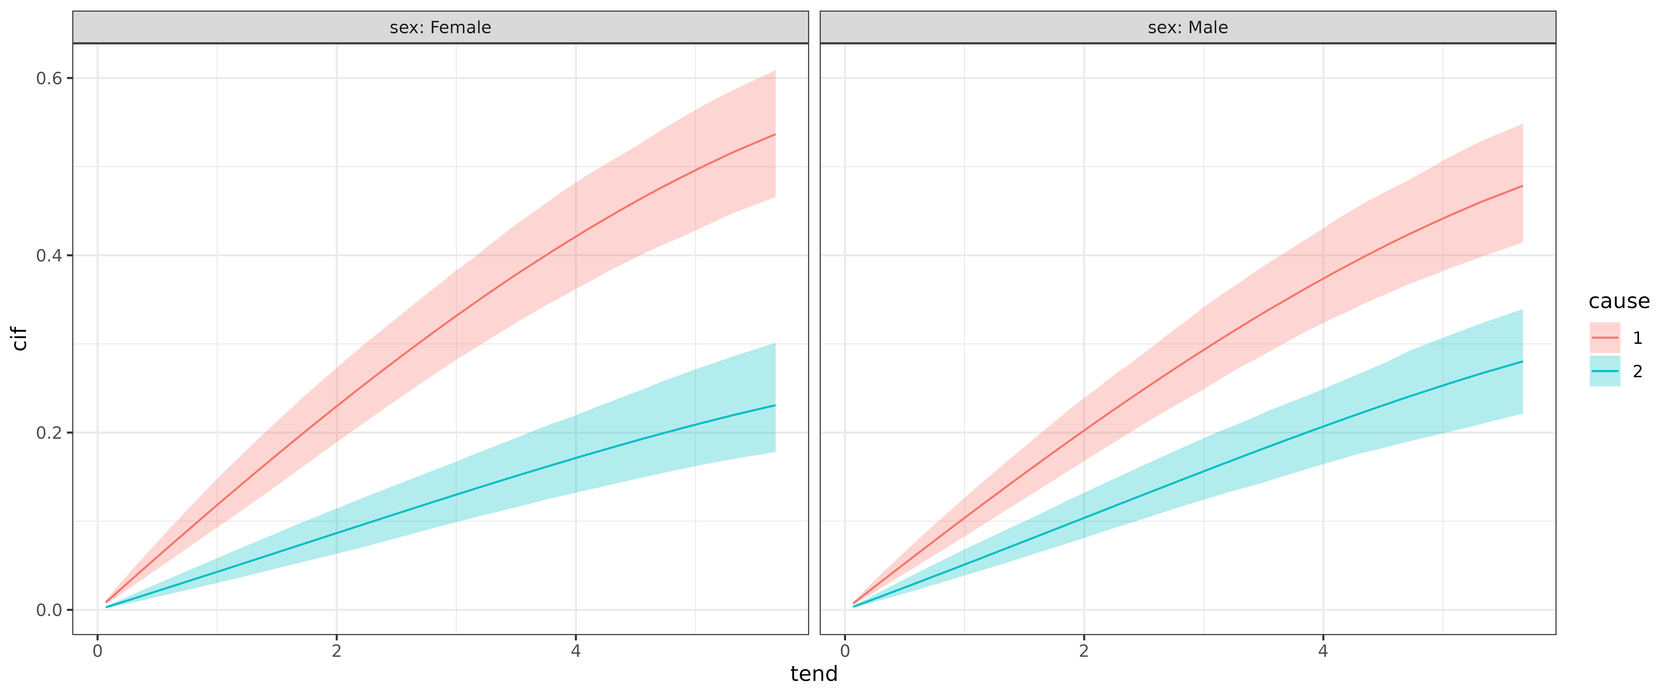
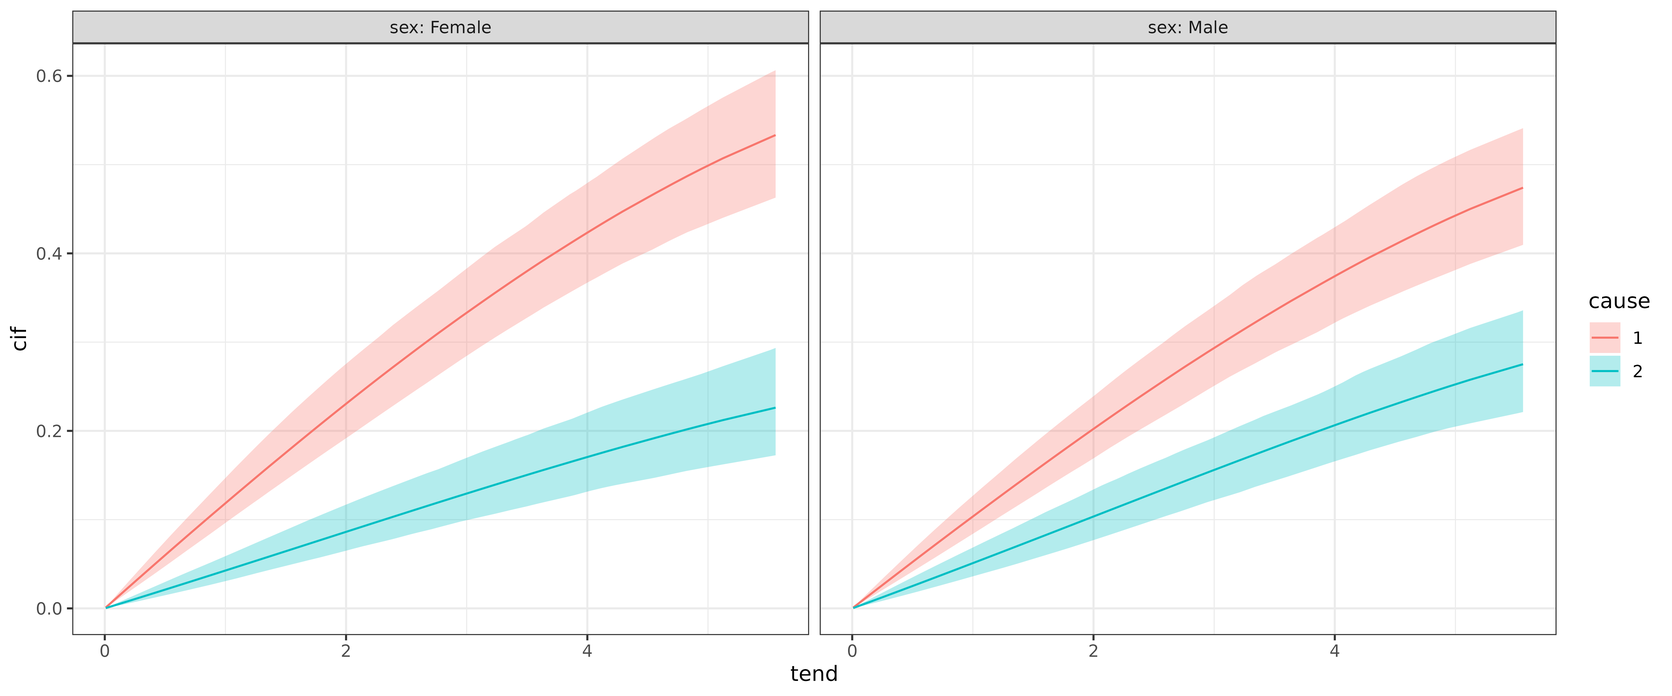
Deploying to gh-pages from @ adibender/pammtools@da57368780e8a02d9a3adbf6868d4b627848fb0f 🚀

diff --git a/articles/competing-risks.html b/articles/competing-risks.html
@@ -145,7 +145,7 @@
                         <h4 data-toc-skip class="author">Andreas
 Bender</h4>
             
-            <h4 data-toc-skip class="date">2024-02-24</h4>
+            <h4 data-toc-skip class="date">2024-02-26</h4>
       
       <small class="dont-index">Source: <a href="https://github.com/adibender/pammtools/blob/HEAD/vignettes/competing-risks.Rmd" class="external-link"><code>vignettes/competing-risks.Rmd</code></a></small>
       <div class="hidden name"><code>competing-risks.Rmd</code></div>
@@ -218,15 +218,15 @@ not stacked but rather returned in a list.</p>
 <span>  <span class="fu"><a href="../reference/as_ped.html">as_ped</a></span><span class="op">(</span><span class="fu"><a href="https://rdrr.io/pkg/survival/man/Surv.html" class="external-link">Surv</a></span><span class="op">(</span><span class="va">time</span>, <span class="va">status</span><span class="op">)</span><span class="op">~</span><span class="va">.</span>, id <span class="op">=</span> <span class="st">"id"</span>, cut <span class="op">=</span> <span class="va">cut</span>, combine <span class="op">=</span> <span class="cn">FALSE</span><span class="op">)</span></span>
 <span><span class="fu"><a href="https://rdrr.io/r/utils/str.html" class="external-link">str</a></span><span class="op">(</span><span class="va">ped</span>, <span class="fl">1</span><span class="op">)</span></span></code></pre></div>
 <pre><code><span><span class="co">## List of 2</span></span>
-<span><span class="co">##  $ cause = 1:Classes 'ped' and 'data.frame': 30438 obs. of  9 variables:</span></span>
-<span><span class="co">##   ..- attr(*, "breaks")= num [1:96] 0.0684 0.0767 0.1752 0.1834 0.1944 ...</span></span>
+<span><span class="co">##  $ cause = 1:Classes 'ped' and 'data.frame': 31274 obs. of  9 variables:</span></span>
+<span><span class="co">##   ..- attr(*, "breaks")= num [1:99] 0.00821 0.10951 0.15606 0.27105 0.38877 ...</span></span>
 <span><span class="co">##   ..- attr(*, "id_var")= chr "id"</span></span>
 <span><span class="co">##   ..- attr(*, "intvars")= chr [1:6] "id" "tstart" "tend" "interval" ...</span></span>
 <span><span class="co">##   ..- attr(*, "trafo_args")=List of 3</span></span>
 <span><span class="co">##   ..- attr(*, "time_var")= chr "time"</span></span>
 <span><span class="co">##   ..- attr(*, "status_var")= chr "status"</span></span>
-<span><span class="co">##  $ cause = 2:Classes 'ped' and 'data.frame': 30438 obs. of  9 variables:</span></span>
-<span><span class="co">##   ..- attr(*, "breaks")= num [1:96] 0.0684 0.0767 0.1752 0.1834 0.1944 ...</span></span>
+<span><span class="co">##  $ cause = 2:Classes 'ped' and 'data.frame': 31274 obs. of  9 variables:</span></span>
+<span><span class="co">##   ..- attr(*, "breaks")= num [1:99] 0.00821 0.10951 0.15606 0.27105 0.38877 ...</span></span>
 <span><span class="co">##   ..- attr(*, "id_var")= chr "id"</span></span>
 <span><span class="co">##   ..- attr(*, "intvars")= chr [1:6] "id" "tstart" "tend" "interval" ...</span></span>
 <span><span class="co">##   ..- attr(*, "trafo_args")=List of 3</span></span>
@@ -238,13 +238,13 @@ not stacked but rather returned in a list.</p>
 <div class="sourceCode" id="cb5"><pre class="downlit sourceCode r">
 <code class="sourceCode R"><span><span class="co"># data set for event type 1 (death from cardiovascular events)</span></span>
 <span><span class="fu"><a href="https://rdrr.io/r/utils/head.html" class="external-link">head</a></span><span class="op">(</span><span class="va">ped</span><span class="op">[[</span><span class="fl">1</span><span class="op">]</span><span class="op">]</span><span class="op">)</span></span></code></pre></div>
-<pre><code><span><span class="co">##     id     tstart       tend                    interval    offset ped_status</span></span>
-<span><span class="co">## 1 5002 0.00000000 0.06844627            (0,0.0684462697] -2.681706          0</span></span>
-<span><span class="co">## 2 5002 0.06844627 0.07665982  (0.0684462697,0.076659822] -4.801970          0</span></span>
-<span><span class="co">## 3 5002 0.07665982 0.17522245  (0.076659822,0.1752224504] -2.317063          0</span></span>
-<span><span class="co">## 4 5002 0.17522245 0.18343600 (0.1752224504,0.1834360027] -4.801970          0</span></span>
-<span><span class="co">## 5 5002 0.18343600 0.19438741 (0.1834360027,0.1943874059] -4.514288          0</span></span>
-<span><span class="co">## 6 5002 0.19438741 0.26009582 (0.1943874059,0.2600958248] -2.722528          0</span></span>
+<pre><code><span><span class="co">##     id      tstart        tend                    interval    offset ped_status</span></span>
+<span><span class="co">## 1 5002 0.000000000 0.008213552            (0,0.0082135524] -4.801970          0</span></span>
+<span><span class="co">## 2 5002 0.008213552 0.109514031 (0.0082135524,0.1095140315] -2.289664          0</span></span>
+<span><span class="co">## 3 5002 0.109514031 0.156057495 (0.1095140315,0.1560574949] -3.067369          0</span></span>
+<span><span class="co">## 4 5002 0.156057495 0.271047228 (0.1560574949,0.2710472279] -2.162912          0</span></span>
+<span><span class="co">## 5 5002 0.271047228 0.388774812 (0.2710472279,0.3887748118] -2.139382          0</span></span>
+<span><span class="co">## 6 5002 0.388774812 0.396988364 (0.3887748118,0.3969883641] -4.801970          0</span></span>
 <span><span class="co">##    sex age cause</span></span>
 <span><span class="co">## 1 Male  60     1</span></span>
 <span><span class="co">## 2 Male  60     1</span></span>
@@ -255,13 +255,13 @@ not stacked but rather returned in a list.</p>
 <div class="sourceCode" id="cb7"><pre class="downlit sourceCode r">
 <code class="sourceCode R"><span><span class="co"># data set for event type 2 (death from other causes)</span></span>
 <span><span class="fu"><a href="https://rdrr.io/r/utils/head.html" class="external-link">head</a></span><span class="op">(</span><span class="va">ped</span><span class="op">[[</span><span class="fl">2</span><span class="op">]</span><span class="op">]</span><span class="op">)</span></span></code></pre></div>
-<pre><code><span><span class="co">##     id     tstart       tend                    interval    offset ped_status</span></span>
-<span><span class="co">## 1 5002 0.00000000 0.06844627            (0,0.0684462697] -2.681706          0</span></span>
-<span><span class="co">## 2 5002 0.06844627 0.07665982  (0.0684462697,0.076659822] -4.801970          0</span></span>
-<span><span class="co">## 3 5002 0.07665982 0.17522245  (0.076659822,0.1752224504] -2.317063          0</span></span>
-<span><span class="co">## 4 5002 0.17522245 0.18343600 (0.1752224504,0.1834360027] -4.801970          0</span></span>
-<span><span class="co">## 5 5002 0.18343600 0.19438741 (0.1834360027,0.1943874059] -4.514288          0</span></span>
-<span><span class="co">## 6 5002 0.19438741 0.26009582 (0.1943874059,0.2600958248] -2.722528          0</span></span>
+<pre><code><span><span class="co">##     id      tstart        tend                    interval    offset ped_status</span></span>
+<span><span class="co">## 1 5002 0.000000000 0.008213552            (0,0.0082135524] -4.801970          0</span></span>
+<span><span class="co">## 2 5002 0.008213552 0.109514031 (0.0082135524,0.1095140315] -2.289664          0</span></span>
+<span><span class="co">## 3 5002 0.109514031 0.156057495 (0.1095140315,0.1560574949] -3.067369          0</span></span>
+<span><span class="co">## 4 5002 0.156057495 0.271047228 (0.1560574949,0.2710472279] -2.162912          0</span></span>
+<span><span class="co">## 5 5002 0.271047228 0.388774812 (0.2710472279,0.3887748118] -2.139382          0</span></span>
+<span><span class="co">## 6 5002 0.388774812 0.396988364 (0.3887748118,0.3969883641] -4.801970          0</span></span>
 <span><span class="co">##    sex age cause</span></span>
 <span><span class="co">## 1 Male  60     2</span></span>
 <span><span class="co">## 2 Male  60     2</span></span>
@@ -286,20 +286,20 @@ recognizes the data type and fits the models accordingly:</p>
 <span><span class="co">## </span></span>
 <span><span class="co">## Parametric coefficients:</span></span>
 <span><span class="co">##              Estimate Std. Error z value Pr(&gt;|z|)    </span></span>
-<span><span class="co">## (Intercept) -3.178995   0.585412  -5.430 5.62e-08 ***</span></span>
-<span><span class="co">## sexMale     -0.136964   0.132265  -1.036   0.3004    </span></span>
-<span><span class="co">## age          0.020164   0.008471   2.380   0.0173 *  </span></span>
+<span><span class="co">## (Intercept) -3.167038   0.584978  -5.414 6.17e-08 ***</span></span>
+<span><span class="co">## sexMale     -0.137125   0.132272  -1.037   0.2999    </span></span>
+<span><span class="co">## age          0.020100   0.008468   2.374   0.0176 *  </span></span>
 <span><span class="co">## ---</span></span>
 <span><span class="co">## Signif. codes:  0 '***' 0.001 '**' 0.01 '*' 0.05 '.' 0.1 ' ' 1</span></span>
 <span><span class="co">## </span></span>
 <span><span class="co">## Approximate significance of smooth terms:</span></span>
 <span><span class="co">##           edf Ref.df Chi.sq p-value   </span></span>
-<span><span class="co">## s(tend) 1.004  1.007  7.867  0.0051 **</span></span>
+<span><span class="co">## s(tend) 1.008  1.017  8.053 0.00471 **</span></span>
 <span><span class="co">## ---</span></span>
 <span><span class="co">## Signif. codes:  0 '***' 0.001 '**' 0.01 '*' 0.05 '.' 0.1 ' ' 1</span></span>
 <span><span class="co">## </span></span>
-<span><span class="co">## R-sq.(adj) =  -0.00732   Deviance explained = 0.594%</span></span>
-<span><span class="co">## UBRE = -0.91774  Scale est. = 1         n = 30438</span></span>
+<span><span class="co">## R-sq.(adj) =  -0.00995   Deviance explained = 0.576%</span></span>
+<span><span class="co">## UBRE = -0.91666  Scale est. = 1         n = 31274</span></span>
 <span><span class="co">## </span></span>
 <span><span class="co">## $`cause = 2`</span></span>
 <span><span class="co">## </span></span>
@@ -311,20 +311,20 @@ recognizes the data type and fits the models accordingly:</p>
 <span><span class="co">## </span></span>
 <span><span class="co">## Parametric coefficients:</span></span>
 <span><span class="co">##             Estimate Std. Error z value Pr(&gt;|z|)    </span></span>
-<span><span class="co">## (Intercept) -6.95344    0.88250  -7.879 3.29e-15 ***</span></span>
-<span><span class="co">## sexMale      0.16884    0.18029   0.936    0.349    </span></span>
-<span><span class="co">## age          0.06417    0.01244   5.160 2.47e-07 ***</span></span>
+<span><span class="co">## (Intercept) -6.94555    0.88212  -7.874 3.44e-15 ***</span></span>
+<span><span class="co">## sexMale      0.16876    0.18030   0.936    0.349    </span></span>
+<span><span class="co">## age          0.06420    0.01244   5.163 2.44e-07 ***</span></span>
 <span><span class="co">## ---</span></span>
 <span><span class="co">## Signif. codes:  0 '***' 0.001 '**' 0.01 '*' 0.05 '.' 0.1 ' ' 1</span></span>
 <span><span class="co">## </span></span>
 <span><span class="co">## Approximate significance of smooth terms:</span></span>
-<span><span class="co">##           edf Ref.df Chi.sq p-value   </span></span>
-<span><span class="co">## s(tend) 1.017  1.033  10.51 0.00126 **</span></span>
+<span><span class="co">##           edf Ref.df Chi.sq p-value    </span></span>
+<span><span class="co">## s(tend) 1.013  1.026  11.39 0.00078 ***</span></span>
 <span><span class="co">## ---</span></span>
 <span><span class="co">## Signif. codes:  0 '***' 0.001 '**' 0.01 '*' 0.05 '.' 0.1 ' ' 1</span></span>
 <span><span class="co">## </span></span>
-<span><span class="co">## R-sq.(adj) =  -0.00461   Deviance explained = 2.32%</span></span>
-<span><span class="co">## UBRE = -0.95002  Scale est. = 1         n = 30438</span></span></code></pre>
+<span><span class="co">## R-sq.(adj) =  -0.00606   Deviance explained = 2.35%</span></span>
+<span><span class="co">## UBRE = -0.95097  Scale est. = 1         n = 31274</span></span></code></pre>
 </div>
 <div class="section level3">
 <h3 id="cause-specific-hazards-with-shared-effects">Cause specific hazards with shared effects<a class="anchor" aria-label="anchor" href="#cause-specific-hazards-with-shared-effects"></a>
@@ -339,13 +339,13 @@ and stacked:</p>
 <span>  <span class="fu"><a href="../reference/as_ped.html">as_ped</a></span><span class="op">(</span><span class="fu"><a href="https://rdrr.io/pkg/survival/man/Surv.html" class="external-link">Surv</a></span><span class="op">(</span><span class="va">time</span>, <span class="va">status</span><span class="op">)</span><span class="op">~</span><span class="va">.</span>, id <span class="op">=</span> <span class="st">"id"</span>, cut <span class="op">=</span> <span class="va">cut</span><span class="op">)</span> <span class="op"><a href="../reference/pipe.html">%&gt;%</a></span></span>
 <span>  <span class="fu"><a href="../reference/dplyr_verbs.html">mutate</a></span><span class="op">(</span>cause <span class="op">=</span> <span class="fu"><a href="https://rdrr.io/r/base/factor.html" class="external-link">as.factor</a></span><span class="op">(</span><span class="va">cause</span><span class="op">)</span><span class="op">)</span></span>
 <span><span class="fu"><a href="https://rdrr.io/r/utils/head.html" class="external-link">head</a></span><span class="op">(</span><span class="va">ped_stacked</span><span class="op">)</span></span></code></pre></div>
-<pre><code><span><span class="co">##     id     tstart       tend                    interval    offset ped_status</span></span>
-<span><span class="co">## 1 5002 0.00000000 0.06844627            (0,0.0684462697] -2.681706          0</span></span>
-<span><span class="co">## 2 5002 0.06844627 0.07665982  (0.0684462697,0.076659822] -4.801970          0</span></span>
-<span><span class="co">## 3 5002 0.07665982 0.17522245  (0.076659822,0.1752224504] -2.317063          0</span></span>
-<span><span class="co">## 4 5002 0.17522245 0.18343600 (0.1752224504,0.1834360027] -4.801970          0</span></span>
-<span><span class="co">## 5 5002 0.18343600 0.19438741 (0.1834360027,0.1943874059] -4.514288          0</span></span>
-<span><span class="co">## 6 5002 0.19438741 0.26009582 (0.1943874059,0.2600958248] -2.722528          0</span></span>
+<pre><code><span><span class="co">##     id      tstart        tend                    interval    offset ped_status</span></span>
+<span><span class="co">## 1 5002 0.000000000 0.008213552            (0,0.0082135524] -4.801970          0</span></span>
+<span><span class="co">## 2 5002 0.008213552 0.109514031 (0.0082135524,0.1095140315] -2.289664          0</span></span>
+<span><span class="co">## 3 5002 0.109514031 0.156057495 (0.1095140315,0.1560574949] -3.067369          0</span></span>
+<span><span class="co">## 4 5002 0.156057495 0.271047228 (0.1560574949,0.2710472279] -2.162912          0</span></span>
+<span><span class="co">## 5 5002 0.271047228 0.388774812 (0.2710472279,0.3887748118] -2.139382          0</span></span>
+<span><span class="co">## 6 5002 0.388774812 0.396988364 (0.3887748118,0.3969883641] -4.801970          0</span></span>
 <span><span class="co">##    sex age cause</span></span>
 <span><span class="co">## 1 Male  60     1</span></span>
 <span><span class="co">## 2 Male  60     1</span></span>
@@ -369,24 +369,24 @@ inclusion of interaction effects:</p>
 <span><span class="co">## </span></span>
 <span><span class="co">## Parametric coefficients:</span></span>
 <span><span class="co">##                   Estimate Std. Error z value Pr(&gt;|z|)    </span></span>
-<span><span class="co">## (Intercept)      -3.179001   0.585413  -5.430 5.62e-08 ***</span></span>
-<span><span class="co">## sexMale          -0.136962   0.132265  -1.036 0.300428    </span></span>
-<span><span class="co">## age               0.020164   0.008471   2.380 0.017299 *  </span></span>
-<span><span class="co">## sexFemale:cause2 -3.774307   1.059010  -3.564 0.000365 ***</span></span>
-<span><span class="co">## sexMale:cause2   -3.468520   1.012503  -3.426 0.000613 ***</span></span>
-<span><span class="co">## age:cause2        0.044004   0.015047   2.924 0.003451 ** </span></span>
+<span><span class="co">## (Intercept)      -3.167038   0.584978  -5.414 6.17e-08 ***</span></span>
+<span><span class="co">## sexMale          -0.137125   0.132272  -1.037 0.299882    </span></span>
+<span><span class="co">## age               0.020100   0.008468   2.374 0.017609 *  </span></span>
+<span><span class="co">## sexFemale:cause2 -3.778094   1.058443  -3.569 0.000358 ***</span></span>
+<span><span class="co">## sexMale:cause2   -3.472253   1.011862  -3.432 0.000600 ***</span></span>
+<span><span class="co">## age:cause2        0.044095   0.015044   2.931 0.003379 ** </span></span>
 <span><span class="co">## ---</span></span>
 <span><span class="co">## Signif. codes:  0 '***' 0.001 '**' 0.01 '*' 0.05 '.' 0.1 ' ' 1</span></span>
 <span><span class="co">## </span></span>
 <span><span class="co">## Approximate significance of smooth terms:</span></span>
-<span><span class="co">##                  edf Ref.df Chi.sq p-value   </span></span>
-<span><span class="co">## s(tend):cause1 1.001  1.003  7.873 0.00504 **</span></span>
-<span><span class="co">## s(tend):cause2 1.026  1.051 10.462 0.00134 **</span></span>
+<span><span class="co">##                  edf Ref.df Chi.sq  p-value    </span></span>
+<span><span class="co">## s(tend):cause1 1.008  1.017  8.053 0.004715 ** </span></span>
+<span><span class="co">## s(tend):cause2 1.037  1.073 11.268 0.000909 ***</span></span>
 <span><span class="co">## ---</span></span>
 <span><span class="co">## Signif. codes:  0 '***' 0.001 '**' 0.01 '*' 0.05 '.' 0.1 ' ' 1</span></span>
 <span><span class="co">## </span></span>
-<span><span class="co">## R-sq.(adj) =  -0.00582   Deviance explained =  2.1%</span></span>
-<span><span class="co">## UBRE = -0.93388  Scale est. = 1         n = 60876</span></span></code></pre>
+<span><span class="co">## R-sq.(adj) =  -0.00805   Deviance explained = 2.06%</span></span>
+<span><span class="co">## UBRE = -0.93381  Scale est. = 1         n = 62548</span></span></code></pre>
 <p>The results indicate that cause specific terms (interactions) are
 necessary in this case and the two models largely agree. For example,
 the age effect for the two causes are very similar for both models:</p>
@@ -416,14 +416,14 @@ function, here <code>add_cif</code>:</p>
 <span>  <span class="fu"><a href="../reference/dplyr_verbs.html">slice</a></span><span class="op">(</span><span class="fl">1</span><span class="op">:</span><span class="fl">3</span><span class="op">)</span></span></code></pre></div>
 <pre><code><span><span class="co">## <span style="color: #949494;"># A tibble: 6 × 5</span></span></span>
 <span><span class="co">## <span style="color: #949494;"># Groups:   cause [2]</span></span></span>
-<span><span class="co">##     tend cause     cif cif_lower cif_upper</span></span>
-<span><span class="co">##    <span style="color: #949494; font-style: italic;">&lt;dbl&gt;</span> <span style="color: #949494; font-style: italic;">&lt;fct&gt;</span>   <span style="color: #949494; font-style: italic;">&lt;dbl&gt;</span>     <span style="color: #949494; font-style: italic;">&lt;dbl&gt;</span>     <span style="color: #949494; font-style: italic;">&lt;dbl&gt;</span></span></span>
-<span><span class="co">## <span style="color: #BCBCBC;">1</span> 0.068<span style="text-decoration: underline;">4</span> 1     0.007<span style="text-decoration: underline;">23</span>   0.005<span style="text-decoration: underline;">65</span>   0.009<span style="text-decoration: underline;">24</span></span></span>
-<span><span class="co">## <span style="color: #BCBCBC;">2</span> 0.076<span style="text-decoration: underline;">7</span> 1     0.008<span style="text-decoration: underline;">10</span>   0.006<span style="text-decoration: underline;">33</span>   0.010<span style="text-decoration: underline;">3</span> </span></span>
-<span><span class="co">## <span style="color: #BCBCBC;">3</span> 0.175  1     0.018<span style="text-decoration: underline;">5</span>    0.014<span style="text-decoration: underline;">5</span>    0.023<span style="text-decoration: underline;">5</span> </span></span>
-<span><span class="co">## <span style="color: #BCBCBC;">4</span> 0.068<span style="text-decoration: underline;">4</span> 2     0.003<span style="text-decoration: underline;">39</span>   0.002<span style="text-decoration: underline;">35</span>   0.004<span style="text-decoration: underline;">85</span></span></span>
-<span><span class="co">## <span style="color: #BCBCBC;">5</span> 0.076<span style="text-decoration: underline;">7</span> 2     0.003<span style="text-decoration: underline;">80</span>   0.002<span style="text-decoration: underline;">63</span>   0.005<span style="text-decoration: underline;">43</span></span></span>
-<span><span class="co">## <span style="color: #BCBCBC;">6</span> 0.175  2     0.008<span style="text-decoration: underline;">71</span>   0.006<span style="text-decoration: underline;">07</span>   0.012<span style="text-decoration: underline;">3</span></span></span></code></pre>
+<span><span class="co">##      tend cause      cif cif_lower cif_upper</span></span>
+<span><span class="co">##     <span style="color: #949494; font-style: italic;">&lt;dbl&gt;</span> <span style="color: #949494; font-style: italic;">&lt;fct&gt;</span>    <span style="color: #949494; font-style: italic;">&lt;dbl&gt;</span>     <span style="color: #949494; font-style: italic;">&lt;dbl&gt;</span>     <span style="color: #949494; font-style: italic;">&lt;dbl&gt;</span></span></span>
+<span><span class="co">## <span style="color: #BCBCBC;">1</span> 0.008<span style="text-decoration: underline;">21</span> 1     0.000<span style="text-decoration: underline;">862</span>  0.000<span style="text-decoration: underline;">661</span>  0.001<span style="text-decoration: underline;">14</span> </span></span>
+<span><span class="co">## <span style="color: #BCBCBC;">2</span> 0.110   1     0.011<span style="text-decoration: underline;">5</span>    0.008<span style="text-decoration: underline;">90</span>   0.015<span style="text-decoration: underline;">1</span>  </span></span>
+<span><span class="co">## <span style="color: #BCBCBC;">3</span> 0.156   1     0.016<span style="text-decoration: underline;">3</span>    0.012<span style="text-decoration: underline;">7</span>    0.021<span style="text-decoration: underline;">4</span>  </span></span>
+<span><span class="co">## <span style="color: #BCBCBC;">4</span> 0.008<span style="text-decoration: underline;">21</span> 2     0.000<span style="text-decoration: underline;">406</span>  0.000<span style="text-decoration: underline;">278</span>  0.000<span style="text-decoration: underline;">569</span></span></span>
+<span><span class="co">## <span style="color: #BCBCBC;">5</span> 0.110   2     0.005<span style="text-decoration: underline;">45</span>   0.003<span style="text-decoration: underline;">76</span>   0.007<span style="text-decoration: underline;">54</span> </span></span>
+<span><span class="co">## <span style="color: #BCBCBC;">6</span> 0.156   2     0.007<span style="text-decoration: underline;">77</span>   0.005<span style="text-decoration: underline;">37</span>   0.010<span style="text-decoration: underline;">7</span></span></span></code></pre>
 <div class="sourceCode" id="cb17"><pre class="downlit sourceCode r">
 <code class="sourceCode R"><span><span class="fu"><a href="https://ggplot2.tidyverse.org/reference/ggplot.html" class="external-link">ggplot</a></span><span class="op">(</span><span class="va">ndf</span>, <span class="fu"><a href="https://ggplot2.tidyverse.org/reference/aes.html" class="external-link">aes</a></span><span class="op">(</span>x <span class="op">=</span> <span class="va">tend</span>, y <span class="op">=</span> <span class="va">cif</span><span class="op">)</span><span class="op">)</span> <span class="op">+</span></span>
 <span>  <span class="fu"><a href="https://ggplot2.tidyverse.org/reference/geom_path.html" class="external-link">geom_line</a></span><span class="op">(</span><span class="fu"><a href="https://ggplot2.tidyverse.org/reference/aes.html" class="external-link">aes</a></span><span class="op">(</span>col <span class="op">=</span> <span class="va">cause</span><span class="op">)</span><span class="op">)</span> <span class="op">+</span></span>

diff --git a/articles/model-evaluation.html b/articles/model-evaluation.html
@@ -143,7 +143,7 @@
     <div class="page-header toc-ignore">
       <h1 data-toc-skip>Model evaluation</h1>
             
-            <h4 data-toc-skip class="date">2024-02-24</h4>
+            <h4 data-toc-skip class="date">2024-02-26</h4>
       
       <small class="dont-index">Source: <a href="https://github.com/adibender/pammtools/blob/HEAD/vignettes/model-evaluation.Rmd" class="external-link"><code>vignettes/model-evaluation.Rmd</code></a></small>
       <div class="hidden name"><code>model-evaluation.Rmd</code></div>
@@ -226,10 +226,10 @@ depends on the evaluation time.</p>
 <span><span class="co">## Integrated Brier score (crps):</span></span>
 <span><span class="co">## </span></span>
 <span><span class="co">##           IBS[0.01;time=203) IBS[0.01;time=533) IBS[0.01;time=1120)</span></span>
-<span><span class="co">## Reference              0.062              0.116               0.168</span></span>
-<span><span class="co">## pam1                   0.061              0.115               0.166</span></span>
-<span><span class="co">## pam2                   0.057              0.110               0.163</span></span>
-<span><span class="co">## pam3                   0.055              0.108               0.163</span></span></code></pre>
+<span><span class="co">## Reference              0.071              0.128               0.175</span></span>
+<span><span class="co">## pam1                   0.070              0.128               0.180</span></span>
+<span><span class="co">## pam2                   0.067              0.122               0.174</span></span>
+<span><span class="co">## pam3                   0.061              0.118               0.174</span></span></code></pre>
 </div>
 <div class="section level2">
 <h2 id="c-index">C-Index<a class="anchor" aria-label="anchor" href="#c-index"></a>
@@ -256,8 +256,8 @@ message and the cited literature.</p>
 <span><span class="co">## </span></span>
 <span><span class="co">## Pattern:</span></span>
 <span><span class="co">##                 Freq</span></span>
-<span><span class="co">##  event          182 </span></span>
-<span><span class="co">##  right.censored 194 </span></span>
+<span><span class="co">##  event          178 </span></span>
+<span><span class="co">##  right.censored 198 </span></span>
 <span><span class="co">## </span></span>
 <span><span class="co">## Censoring model for IPCW: marginal model (Kaplan-Meier for censoring distribution) </span></span>
 <span><span class="co">## </span></span>
@@ -267,9 +267,9 @@ message and the cited literature.</p>
 <span><span class="co">## </span></span>
 <span><span class="co">## $AppCindex</span></span>
 <span><span class="co">##      time=203 time=533 time=1120</span></span>
-<span><span class="co">## pam1     60.9     59.9      59.3</span></span>
-<span><span class="co">## pam2     70.4     64.3      60.6</span></span>
-<span><span class="co">## pam3     74.3     61.8      55.3</span></span></code></pre>
+<span><span class="co">## pam1     63.1     55.2      53.1</span></span>
+<span><span class="co">## pam2     73.7     62.7      59.7</span></span>
+<span><span class="co">## pam3     77.8     62.3      51.6</span></span></code></pre>
 <pre><code><span><span class="co">## Warning in summary.Cindex(x, print = TRUE, ...): The C-index is not proper for t-year predictions. Blanche et al. (2018), Biostatistics, 20(2): 347--357.</span></span>
 <span><span class="co">## </span></span>
 <span><span class="co">## Consider using time-dependent AUC instead: riskRegression::Score</span></span></code></pre>

diff --git a/articles/recurrent-events.html b/articles/recurrent-events.html
@@ -145,7 +145,7 @@
                         <h4 data-toc-skip class="author">Jordache
 Ramjith, Andreas Bender, Kit C.B. Roes &amp; Marianne A. Jonker</h4>
             
-            <h4 data-toc-skip class="date">2024-02-24</h4>
+            <h4 data-toc-skip class="date">2024-02-26</h4>
       
       <small class="dont-index">Source: <a href="https://github.com/adibender/pammtools/blob/HEAD/vignettes/recurrent-events.Rmd" class="external-link"><code>vignettes/recurrent-events.Rmd</code></a></small>
       <div class="hidden name"><code>recurrent-events.Rmd</code></div>

diff --git a/articles/data-transformation.html b/articles/data-transformation.html
@@ -143,7 +143,7 @@
     <div class="page-header toc-ignore">
       <h1 data-toc-skip>Data Transformation</h1>
             
-            <h4 data-toc-skip class="date">2024-02-24</h4>
+            <h4 data-toc-skip class="date">2024-02-26</h4>
       
       <small class="dont-index">Source: <a href="https://github.com/adibender/pammtools/blob/HEAD/vignettes/data-transformation.Rmd" class="external-link"><code>vignettes/data-transformation.Rmd</code></a></small>
       <div class="hidden name"><code>data-transformation.Rmd</code></div>

diff --git a/articles/cumulative-effects.html b/articles/cumulative-effects.html
@@ -143,7 +143,7 @@
     <div class="page-header toc-ignore">
       <h1 data-toc-skip>Cumulative Effects</h1>
             
-            <h4 data-toc-skip class="date">2024-02-24</h4>
+            <h4 data-toc-skip class="date">2024-02-26</h4>
       
       <small class="dont-index">Source: <a href="https://github.com/adibender/pammtools/blob/HEAD/vignettes/cumulative-effects.Rmd" class="external-link"><code>vignettes/cumulative-effects.Rmd</code></a></small>
       <div class="hidden name"><code>cumulative-effects.Rmd</code></div>

diff --git a/articles/convenience.html b/articles/convenience.html
@@ -143,7 +143,7 @@
     <div class="page-header toc-ignore">
       <h1 data-toc-skip>Workflow and convenience functions</h1>
             
-            <h4 data-toc-skip class="date">2024-02-24</h4>
+            <h4 data-toc-skip class="date">2024-02-26</h4>
       
       <small class="dont-index">Source: <a href="https://github.com/adibender/pammtools/blob/HEAD/vignettes/convenience.Rmd" class="external-link"><code>vignettes/convenience.Rmd</code></a></small>
       <div class="hidden name"><code>convenience.Rmd</code></div>

diff --git a/articles/smj-tutorial.html b/articles/smj-tutorial.html
@@ -144,7 +144,7 @@
       <h1 data-toc-skip>Paper: A generalized additive model approach to
 time-to-event analysis</h1>
             
-            <h4 data-toc-skip class="date">2024-02-24</h4>
+            <h4 data-toc-skip class="date">2024-02-26</h4>
       
       <small class="dont-index">Source: <a href="https://github.com/adibender/pammtools/blob/HEAD/vignettes/smj-tutorial.Rmd" class="external-link"><code>vignettes/smj-tutorial.Rmd</code></a></small>
       <div class="hidden name"><code>smj-tutorial.Rmd</code></div>

diff --git a/articles/left-truncation.html b/articles/left-truncation.html
@@ -143,7 +143,7 @@
     <div class="page-header toc-ignore">
       <h1 data-toc-skip>Left Truncation</h1>
             
-            <h4 data-toc-skip class="date">2024-02-24</h4>
+            <h4 data-toc-skip class="date">2024-02-26</h4>
       
       <small class="dont-index">Source: <a href="https://github.com/adibender/pammtools/blob/HEAD/vignettes/left-truncation.Rmd" class="external-link"><code>vignettes/left-truncation.Rmd</code></a></small>
       <div class="hidden name"><code>left-truncation.Rmd</code></div>

diff --git a/articles/splines.html b/articles/splines.html
@@ -143,7 +143,7 @@
     <div class="page-header toc-ignore">
       <h1 data-toc-skip>Non-linear effects (penalized splines)</h1>
             
-            <h4 data-toc-skip class="date">2024-02-24</h4>
+            <h4 data-toc-skip class="date">2024-02-26</h4>
       
       <small class="dont-index">Source: <a href="https://github.com/adibender/pammtools/blob/HEAD/vignettes/splines.Rmd" class="external-link"><code>vignettes/splines.Rmd</code></a></small>
       <div class="hidden name"><code>splines.Rmd</code></div>

diff --git a/articles/frailty.html b/articles/frailty.html
@@ -143,7 +143,7 @@
     <div class="page-header toc-ignore">
       <h1 data-toc-skip>Frailty and random effects</h1>
             
-            <h4 data-toc-skip class="date">2024-02-24</h4>
+            <h4 data-toc-skip class="date">2024-02-26</h4>
       
       <small class="dont-index">Source: <a href="https://github.com/adibender/pammtools/blob/HEAD/vignettes/frailty.Rmd" class="external-link"><code>vignettes/frailty.Rmd</code></a></small>
       <div class="hidden name"><code>frailty.Rmd</code></div>

diff --git a/articles/tveffects.html b/articles/tveffects.html
@@ -143,7 +143,7 @@
     <div class="page-header toc-ignore">
       <h1 data-toc-skip>Time-varying effects</h1>
             
-            <h4 data-toc-skip class="date">2024-02-24</h4>
+            <h4 data-toc-skip class="date">2024-02-26</h4>
       
       <small class="dont-index">Source: <a href="https://github.com/adibender/pammtools/blob/HEAD/vignettes/tveffects.Rmd" class="external-link"><code>vignettes/tveffects.Rmd</code></a></small>
       <div class="hidden name"><code>tveffects.Rmd</code></div>

diff --git a/articles/tdcovar.html b/articles/tdcovar.html
@@ -143,7 +143,7 @@
     <div class="page-header toc-ignore">
       <h1 data-toc-skip>Time-dependent covariates</h1>
             
-            <h4 data-toc-skip class="date">2024-02-24</h4>
+            <h4 data-toc-skip class="date">2024-02-26</h4>
       
       <small class="dont-index">Source: <a href="https://github.com/adibender/pammtools/blob/HEAD/vignettes/tdcovar.Rmd" class="external-link"><code>vignettes/tdcovar.Rmd</code></a></small>
       <div class="hidden name"><code>tdcovar.Rmd</code></div>
